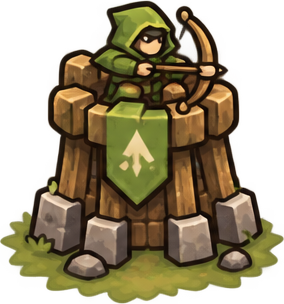
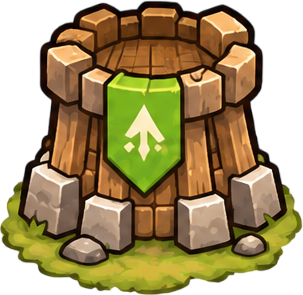
Changed building sprites and scales

diff --git a/src/GameView.cpp b/src/GameView.cpp
@@ -55,11 +55,11 @@ QString spriteName(TowerType type)
 double spriteScale(TowerType type)
 {
     switch (type) {
-    case TowerType::Archer:    return 1.0;
-    case TowerType::Cannon:    return 1.0;
-    case TowerType::Mage:      return 1.0;
-    case TowerType::Barracks:  return 1.0;
-    case TowerType::Artillery: return 1.0;
+    case TowerType::Archer:    return 0.8;
+    case TowerType::Cannon:    return 0.8;
+    case TowerType::Mage:      return 0.8;
+    case TowerType::Barracks:  return 0.8;
+    case TowerType::Artillery: return 0.8;
     }
     return 1.0;
 }
